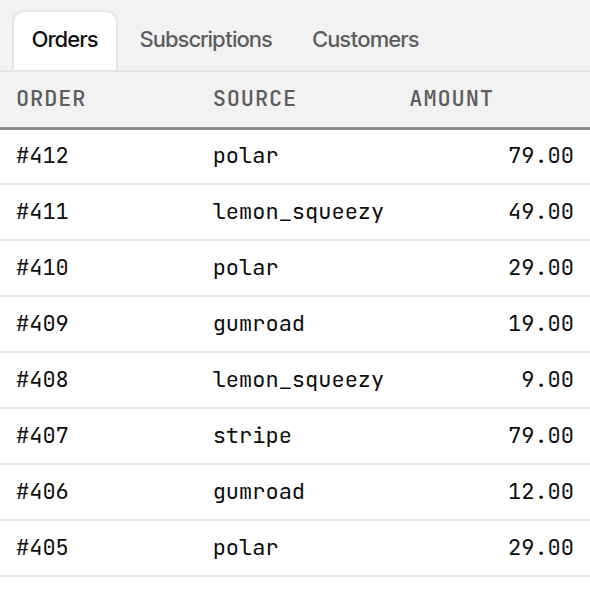
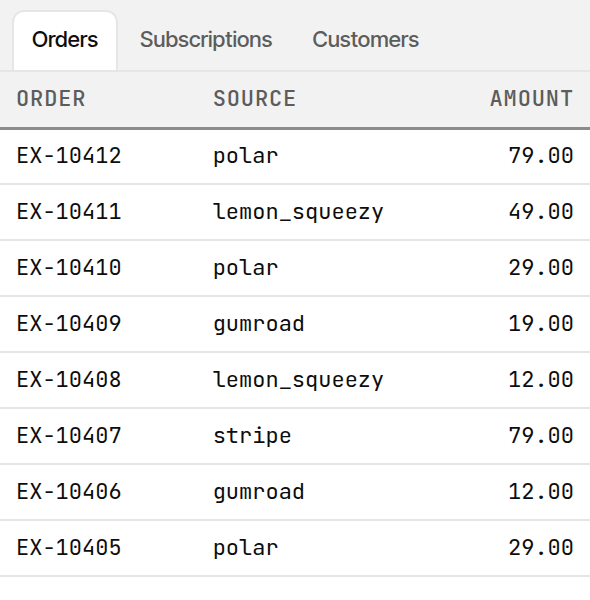
fix(site): 3:45 crops/aria, meta Stripe+CSV, blog launch CTAs (#29)
Restore HeroDemo aria-label; regenerate 600² step crops (dashboard chart
fully visible with May–Oct labels, 28px inset, EX-104xx IDs, right-aligned
Amount); Replay sits under Stripe with 16px gap. Meta/OG description lists
Stripe and CSV; blog CTAs use the launch list; replace three-platform copy.

diff --git a/addon/scripts/marketing-crops.html b/addon/scripts/marketing-crops.html
@@ -44,10 +44,10 @@
       position: relative;
     }
 
-    /* —— Connect: SOURCES + 4 cards, no brand header —— */
+    /* —— Connect: 28px inset, SOURCES + 4 cards —— */
     .connect {
       height: 100%;
-      padding: 14px 14px 12px;
+      padding: 28px;
       display: flex;
       flex-direction: column;
     }
@@ -69,7 +69,7 @@
     .src {
       border: 1px solid var(--border);
       border-radius: 10px;
-      padding: 9px 10px;
+      padding: 8px 10px;
       display: flex;
       justify-content: space-between;
       align-items: center;
@@ -88,10 +88,10 @@
     .src-state { font-weight: 500; white-space: nowrap; font-size: 12px; }
     .src-state.off { color: var(--muted); }
 
-    /* —— Backfill —— */
+    /* —— Backfill: 28px inset, bottom pad 28px, fade —— */
     .backfill {
       height: 100%;
-      padding: 14px 14px 0;
+      padding: 28px;
       display: flex;
       flex-direction: column;
       position: relative;
@@ -125,12 +125,13 @@
       min-height: 0;
       overflow: hidden;
       position: relative;
+      padding-bottom: 0;
     }
     .bf-row {
       display: grid;
-      grid-template-columns: 1.15fr 1.1fr 0.55fr;
+      grid-template-columns: 0.85fr 1.35fr 0.5fr;
       gap: 6px;
-      padding: 8px 2px;
+      padding: 7px 2px;
       border-bottom: 1px solid var(--hairline);
       font: 400 11px/1.2 "JetBrains Mono", monospace;
     }
@@ -146,22 +147,24 @@
       pointer-events: none;
     }
 
-    /* —— Dashboard 300×300 —— */
+    /* —— Dashboard 300×300, 28px inset, full chart —— */
     .dash {
       height: 100%;
-      padding: 12px 12px 12px;
+      padding: 28px;
       display: flex;
       flex-direction: column;
+      justify-content: flex-start;
+      overflow: hidden;
     }
     .dash-status {
-      height: 26px;
+      height: 18px;
       display: flex;
       align-items: center;
       background: var(--surface2);
       font: 400 10px/1 "JetBrains Mono", monospace;
       color: var(--ink);
       padding: 0 8px;
-      margin-bottom: 10px;
+      margin-bottom: 4px;
       overflow: hidden;
       white-space: nowrap;
       flex: none;
@@ -171,59 +174,77 @@
       display: grid;
       grid-template-columns: 1fr 1fr;
       gap: 8px;
-      margin-bottom: 10px;
+      margin-bottom: 4px;
       flex: none;
     }
     .kpi {
       border: 1px solid var(--hairline);
       border-top: 2px solid var(--ink);
-      padding: 8px 8px 10px;
+      padding: 8px 12px;
       background: #fff;
+      position: relative;
+      min-height: 0;
     }
     .kpi .lab {
       font: 400 9px/1 "JetBrains Mono", monospace;
       color: var(--muted);
       text-transform: uppercase;
-      margin-bottom: 6px;
+      margin-bottom: 2px;
+      padding-right: 48px;
     }
     .kpi .val {
-      font-size: 18px;
+      font-size: 28px;
       font-weight: 600;
       letter-spacing: -0.03em;
-      margin-bottom: 4px;
+      line-height: 1;
     }
     .kpi .delta {
+      position: absolute;
+      top: 8px;
+      right: 10px;
       font: 600 10px/1 "JetBrains Mono", monospace;
       color: var(--signal);
     }
     .sec {
       font-size: 11px;
       font-weight: 600;
-      margin-bottom: 8px;
+      margin: 0 0 2px;
       flex: none;
     }
     .chart-wrap {
-      flex: 1;
-      min-height: 0;
-      padding-right: 24px; /* 24px clear of right edge */
+      flex: none;
+      margin-top: 0;
     }
     .bars {
       display: flex;
       align-items: flex-end;
-      gap: 4px;
-      height: 100%;
-      min-height: 72px;
+      gap: 6px;
+      height: 64px;
+      border-bottom: 1px solid var(--hairline);
     }
-    .bar-col { flex: 1; display: flex; flex-direction: column; justify-content: flex-end; height: 100%; }
+    .bar-col {
+      flex: 1;
+      display: flex;
+      flex-direction: column;
+      justify-content: flex-end;
+      height: 100%;
+      position: relative;
+    }
     .seg { width: 100%; }
     .seg.a { background: #0d0d0d; }
     .seg.b { background: #5c5c5c; }
     .seg.c { background: #8c8c8c; }
     .bar-label {
+      position: absolute;
+      top: calc(100% + 6px);
+      left: 0;
+      right: 0;
       text-align: center;
-      margin-top: 3px;
-      font: 400 8px/1 "JetBrains Mono", monospace;
+      font: 400 11px/1 "JetBrains Mono", monospace;
       color: var(--muted);
+    }
+    .chart-labels-spacer {
+      height: 17px; /* 6px gap + 11px label */
       flex: none;
     }
 
@@ -293,8 +314,11 @@
       height: 26px;
       border-bottom: 1.5px solid var(--border);
     }
+    table.orders th.num,
+    table.orders td.num,
+    table.orders th:last-child,
+    table.orders td:last-child { text-align: right; }
     table.orders td.name { font-family: "Inter Tight", sans-serif; }
-    table.orders td.num { text-align: right; }
   </style>
 </head>
 <body>
@@ -318,12 +342,14 @@
         <div class="bf-track"><div class="bf-fill"></div></div>
       </div>
       <div class="bf-rows">
-        <div class="bf-row"><span class="prod">Demo SaaS · Team</span><span>sample.user412</span><span class="amt">79.00</span></div>
-        <div class="bf-row"><span class="prod">Example Course</span><span>sample.user411</span><span class="amt">49.00</span></div>
-        <div class="bf-row"><span class="prod">Demo SaaS · Pro</span><span>sample.user410</span><span class="amt">29.00</span></div>
-        <div class="bf-row"><span class="prod">Template Kit</span><span>sample.user409</span><span class="amt">19.00</span></div>
-        <div class="bf-row"><span class="prod">Sample E-book</span><span>sample.user408</span><span class="amt">9.00</span></div>
-        <div class="bf-row"><span class="prod">Icon Pack</span><span>sample.user407</span><span class="amt">12.00</span></div>
+        <div class="bf-row"><span>EX-10450</span><span class="prod">Demo SaaS · Pro</span><span class="amt">29.00</span></div>
+        <div class="bf-row"><span>EX-10449</span><span class="prod">Example Course</span><span class="amt">49.00</span></div>
+        <div class="bf-row"><span>EX-10448</span><span class="prod">Sample Icon Pack</span><span class="amt">12.00</span></div>
+        <div class="bf-row"><span>EX-10447</span><span class="prod">Demo SaaS · Team</span><span class="amt">19.00</span></div>
+        <div class="bf-row"><span>EX-10446</span><span class="prod">Template Kit</span><span class="amt">9.00</span></div>
+        <div class="bf-row"><span>EX-10445</span><span class="prod">Demo SaaS · Pro</span><span class="amt">29.00</span></div>
+        <div class="bf-row"><span>EX-10444</span><span class="prod">Sample Icon Pack</span><span class="amt">12.00</span></div>
+        <div class="bf-row"><span>EX-10443</span><span class="prod">Example Course</span><span class="amt">19.00</span></div>
         <div class="bf-fade"></div>
       </div>
     </div>
@@ -342,14 +368,16 @@
       </div>
       <div class="sec">MRR by source · 6 months</div>
       <div class="chart-wrap">
+        <!-- Stepping up L→R; stacked segments; ~64px bars on hairline baseline -->
         <div class="bars">
-          <div class="bar-col"><div class="seg a" style="height:42%"></div><div class="seg b" style="height:24%"></div><div class="seg c" style="height:12%"></div><div class="bar-label">M</div></div>
-          <div class="bar-col"><div class="seg a" style="height:48%"></div><div class="seg b" style="height:26%"></div><div class="seg c" style="height:13%"></div><div class="bar-label">J</div></div>
-          <div class="bar-col"><div class="seg a" style="height:54%"></div><div class="seg b" style="height:28%"></div><div class="seg c" style="height:14%"></div><div class="bar-label">J</div></div>
-          <div class="bar-col"><div class="seg a" style="height:60%"></div><div class="seg b" style="height:30%"></div><div class="seg c" style="height:15%"></div><div class="bar-label">A</div></div>
-          <div class="bar-col"><div class="seg a" style="height:66%"></div><div class="seg b" style="height:32%"></div><div class="seg c" style="height:16%"></div><div class="bar-label">S</div></div>
-          <div class="bar-col"><div class="seg a" style="height:72%"></div><div class="seg b" style="height:34%"></div><div class="seg c" style="height:17%"></div><div class="bar-label">O</div></div>
+          <div class="bar-col"><div class="seg a" style="height:22px"></div><div class="seg b" style="height:10px"></div><div class="seg c" style="height:5px"></div><div class="bar-label">May</div></div>
+          <div class="bar-col"><div class="seg a" style="height:26px"></div><div class="seg b" style="height:12px"></div><div class="seg c" style="height:6px"></div><div class="bar-label">Jun</div></div>
+          <div class="bar-col"><div class="seg a" style="height:30px"></div><div class="seg b" style="height:13px"></div><div class="seg c" style="height:7px"></div><div class="bar-label">Jul</div></div>
+          <div class="bar-col"><div class="seg a" style="height:34px"></div><div class="seg b" style="height:14px"></div><div class="seg c" style="height:7px"></div><div class="bar-label">Aug</div></div>
+          <div class="bar-col"><div class="seg a" style="height:38px"></div><div class="seg b" style="height:15px"></div><div class="seg c" style="height:8px"></div><div class="bar-label">Sep</div></div>
+          <div class="bar-col"><div class="seg a" style="height:40px"></div><div class="seg b" style="height:16px"></div><div class="seg c" style="height:8px"></div><div class="bar-label">Oct</div></div>
         </div>
+        <div class="chart-labels-spacer"></div>
       </div>
     </div>
   </div>
@@ -365,20 +393,20 @@
     <table class="orders">
       <thead>
         <tr>
-          <th>Order ID</th><th>Created</th><th>Source</th><th>Product</th><th>Amount</th>
+          <th>Order ID</th><th>Created</th><th>Source</th><th>Product</th><th class="num">Amount</th>
         </tr>
       </thead>
       <tbody>
-        <tr><td>sample_order_412</td><td>2026-10-08</td><td>polar</td><td class="name">Demo SaaS · Team</td><td class="num">79.00</td></tr>
-        <tr><td>sample_order_411</td><td>2026-10-08</td><td>lemon_squeezy</td><td class="name">Example Course</td><td class="num">49.00</td></tr>
-        <tr><td>sample_order_410</td><td>2026-10-07</td><td>polar</td><td class="name">Demo SaaS · Pro</td><td class="num">29.00</td></tr>
-        <tr><td>sample_order_409</td><td>2026-10-07</td><td>gumroad</td><td class="name">Template Kit</td><td class="num">19.00</td></tr>
-        <tr><td>sample_order_408</td><td>2026-10-06</td><td>lemon_squeezy</td><td class="name">Sample E-book</td><td class="num">9.00</td></tr>
-        <tr><td>sample_order_407</td><td>2026-10-06</td><td>stripe</td><td class="name">Demo SaaS · Team</td><td class="num">79.00</td></tr>
-        <tr><td>sample_order_406</td><td>2026-10-05</td><td>gumroad</td><td class="name">Icon Pack</td><td class="num">12.00</td></tr>
-        <tr><td>sample_order_405</td><td>2026-10-05</td><td>polar</td><td class="name">Demo SaaS · Pro</td><td class="num">29.00</td></tr>
-        <tr><td>sample_order_404</td><td>2026-10-04</td><td>lemon_squeezy</td><td class="name">Example Course</td><td class="num">49.00</td></tr>
-        <tr><td>sample_order_403</td><td>2026-10-04</td><td>stripe</td><td class="name">Demo SaaS · Team</td><td class="num">79.00</td></tr>
+        <tr><td>EX-10412</td><td>2026-10-08</td><td>polar</td><td class="name">Demo SaaS · Team</td><td class="num">79.00</td></tr>
+        <tr><td>EX-10411</td><td>2026-10-08</td><td>lemon_squeezy</td><td class="name">Example Course</td><td class="num">49.00</td></tr>
+        <tr><td>EX-10410</td><td>2026-10-07</td><td>polar</td><td class="name">Demo SaaS · Pro</td><td class="num">29.00</td></tr>
+        <tr><td>EX-10409</td><td>2026-10-07</td><td>gumroad</td><td class="name">Template Kit</td><td class="num">19.00</td></tr>
+        <tr><td>EX-10408</td><td>2026-10-06</td><td>lemon_squeezy</td><td class="name">Sample Icon Pack</td><td class="num">12.00</td></tr>
+        <tr><td>EX-10407</td><td>2026-10-06</td><td>stripe</td><td class="name">Demo SaaS · Team</td><td class="num">79.00</td></tr>
+        <tr><td>EX-10406</td><td>2026-10-05</td><td>gumroad</td><td class="name">Sample Icon Pack</td><td class="num">12.00</td></tr>
+        <tr><td>EX-10405</td><td>2026-10-05</td><td>polar</td><td class="name">Demo SaaS · Pro</td><td class="num">29.00</td></tr>
+        <tr><td>EX-10404</td><td>2026-10-04</td><td>lemon_squeezy</td><td class="name">Example Course</td><td class="num">49.00</td></tr>
+        <tr><td>EX-10403</td><td>2026-10-04</td><td>stripe</td><td class="name">Template Kit</td><td class="num">9.00</td></tr>
       </tbody>
     </table>
   </div>
@@ -393,18 +421,18 @@
     <table class="orders">
       <thead>
         <tr>
-          <th>Order</th><th>Source</th><th>Amount</th>
+          <th>Order</th><th>Source</th><th class="num">Amount</th>
         </tr>
       </thead>
       <tbody>
-        <tr><td>#412</td><td>polar</td><td class="num">79.00</td></tr>
-        <tr><td>#411</td><td>lemon_squeezy</td><td class="num">49.00</td></tr>
-        <tr><td>#410</td><td>polar</td><td class="num">29.00</td></tr>
-        <tr><td>#409</td><td>gumroad</td><td class="num">19.00</td></tr>
-        <tr><td>#408</td><td>lemon_squeezy</td><td class="num">9.00</td></tr>
-        <tr><td>#407</td><td>stripe</td><td class="num">79.00</td></tr>
-        <tr><td>#406</td><td>gumroad</td><td class="num">12.00</td></tr>
-        <tr><td>#405</td><td>polar</td><td class="num">29.00</td></tr>
+        <tr><td>EX-10412</td><td>polar</td><td class="num">79.00</td></tr>
+        <tr><td>EX-10411</td><td>lemon_squeezy</td><td class="num">49.00</td></tr>
+        <tr><td>EX-10410</td><td>polar</td><td class="num">29.00</td></tr>
+        <tr><td>EX-10409</td><td>gumroad</td><td class="num">19.00</td></tr>
+        <tr><td>EX-10408</td><td>lemon_squeezy</td><td class="num">12.00</td></tr>
+        <tr><td>EX-10407</td><td>stripe</td><td class="num">79.00</td></tr>
+        <tr><td>EX-10406</td><td>gumroad</td><td class="num">12.00</td></tr>
+        <tr><td>EX-10405</td><td>polar</td><td class="num">29.00</td></tr>
       </tbody>
     </table>
   </div>

diff --git a/app/layout.tsx b/app/layout.tsx
@@ -29,7 +29,7 @@ export const metadata: Metadata = {
     default: `${brand.name} · ${brand.pitch}`,
     template: `%s · ${brand.name}`,
   },
-  description: brand.description,
+  description: brand.metaDescription,
   applicationName: brand.name,
   icons: {
     icon: [{ url: brand.logo.icon32 }, { url: brand.logo.icon128, sizes: "128x128" }],
@@ -38,13 +38,13 @@ export const metadata: Metadata = {
     type: "website",
     siteName: brand.name,
     title: `${brand.name} · ${brand.pitch}`,
-    description: brand.description,
+    description: brand.metaDescription,
     url: siteConfig.url,
   },
   twitter: {
     card: "summary_large_image",
     title: `${brand.name} · ${brand.pitch}`,
-    description: brand.description,
+    description: brand.metaDescription,
   },
   alternates: {
     canonical: siteConfig.url,

diff --git a/app/globals.css b/app/globals.css
@@ -658,7 +658,7 @@ a.chip[aria-current="page"] {
 .hero-stores-col {
   display: flex;
   flex-direction: column;
-  justify-content: space-between;
+  justify-content: flex-start;
   align-items: stretch;
   gap: var(--space-4);
   width: 168px;
@@ -675,7 +675,7 @@ a.chip[aria-current="page"] {
 .hero-stores-foot {
   display: flex;
   flex-direction: column;
-  margin-top: auto;
+  margin-top: 0;
 }
 
 .hero-stores-foot .hero-demo-foot {
@@ -767,6 +767,7 @@ a.chip[aria-current="page"] {
   margin: 0;
   font-size: var(--t-eyebrow-size);
   color: var(--c-ink-muted);
+  white-space: nowrap;
 }
 
 .hero-replay {

diff --git a/lib/brand.ts b/lib/brand.ts
@@ -11,6 +11,9 @@ export const brand = {
   pitch: "All your stores, in a sheet you own.",
   description:
     "Lemon Squeezy, Polar, Gumroad and Stripe revenue, synced into Google Sheets on a schedule, with an MRR dashboard built for you.",
+  /** Meta / Open Graph: includes Stripe + CSV (hero lede stays `description`). */
+  metaDescription:
+    "Lemon Squeezy, Polar, Gumroad and Stripe revenue, plus CSV import, synced into Google Sheets on a schedule, with an MRR dashboard built for you.",
   taglineShort: "Google Sheets add-on",
   /** Logo concept currently shipping (Ledger Cell = c3). */
   logo: {

diff --git a/components/HeroDemo.tsx b/components/HeroDemo.tsx
@@ -374,7 +374,7 @@ export function HeroDemo() {
         ref={stageRef}
         className="hero-stage"
         role="img"
-        aria-label="four stores"
+        aria-label="Animation: four stores sync orders into one spreadsheet while MRR rises (example data)"
       >
         <div className="hero-stores-col" aria-hidden="true">
           <div className="hero-stores">

diff --git a/__tests__/brand.test.ts b/__tests__/brand.test.ts
@@ -61,4 +61,10 @@ describe("brand config", () => {
       /Lemon Squeezy, Polar, Gumroad and Stripe revenue, synced into Google Sheets on a schedule/,
     );
   });
+
+  it("lists Stripe and CSV import in the meta / Open Graph description", () => {
+    expect(brand.metaDescription).toMatch(/Stripe/);
+    expect(brand.metaDescription).toMatch(/CSV import/);
+  });
 });
+

diff --git a/design/MOTION.md b/design/MOTION.md
@@ -39,7 +39,7 @@ Motion explains what changed and where data went. It never decorates. Tokens liv
 | 0.6s | Lemon Squeezy dot turns signal green with a soft pulse ring. An order "packet" pill (`+$29`) travels along a curved path (`offset-path`, 900ms, `--ease-in-out`) from the store card into the sheet. |
 | 1.4s | Packet lands: a new row slides in at the top (8px, `--dur-slow`), its cells flash `signal-tint` then fade (1.2s). The MRR counter tweens up (ease-out quart, 700ms, tabular numerals so width never jitters). The current-month green bar grows. |
 | 1.0–6.5s | Polar and Gumroad join and orders alternate every 420ms; the table keeps 9 rows and old rows drop off the bottom. |
-| end | Everything rests with all three stores live (steady pulse). A "Replay" button restarts. The caption "Example data · no real customers" is always visible. |
+| end | Everything rests with all four stores live (steady pulse). A "Replay" button restarts. The caption "Example data · no real customers" is always visible. |
 
 ## Reduced motion (`prefers-reduced-motion: reduce`)
 - Tokens collapse: durations go to 0, reveal distance to 0, press scale to 1.
